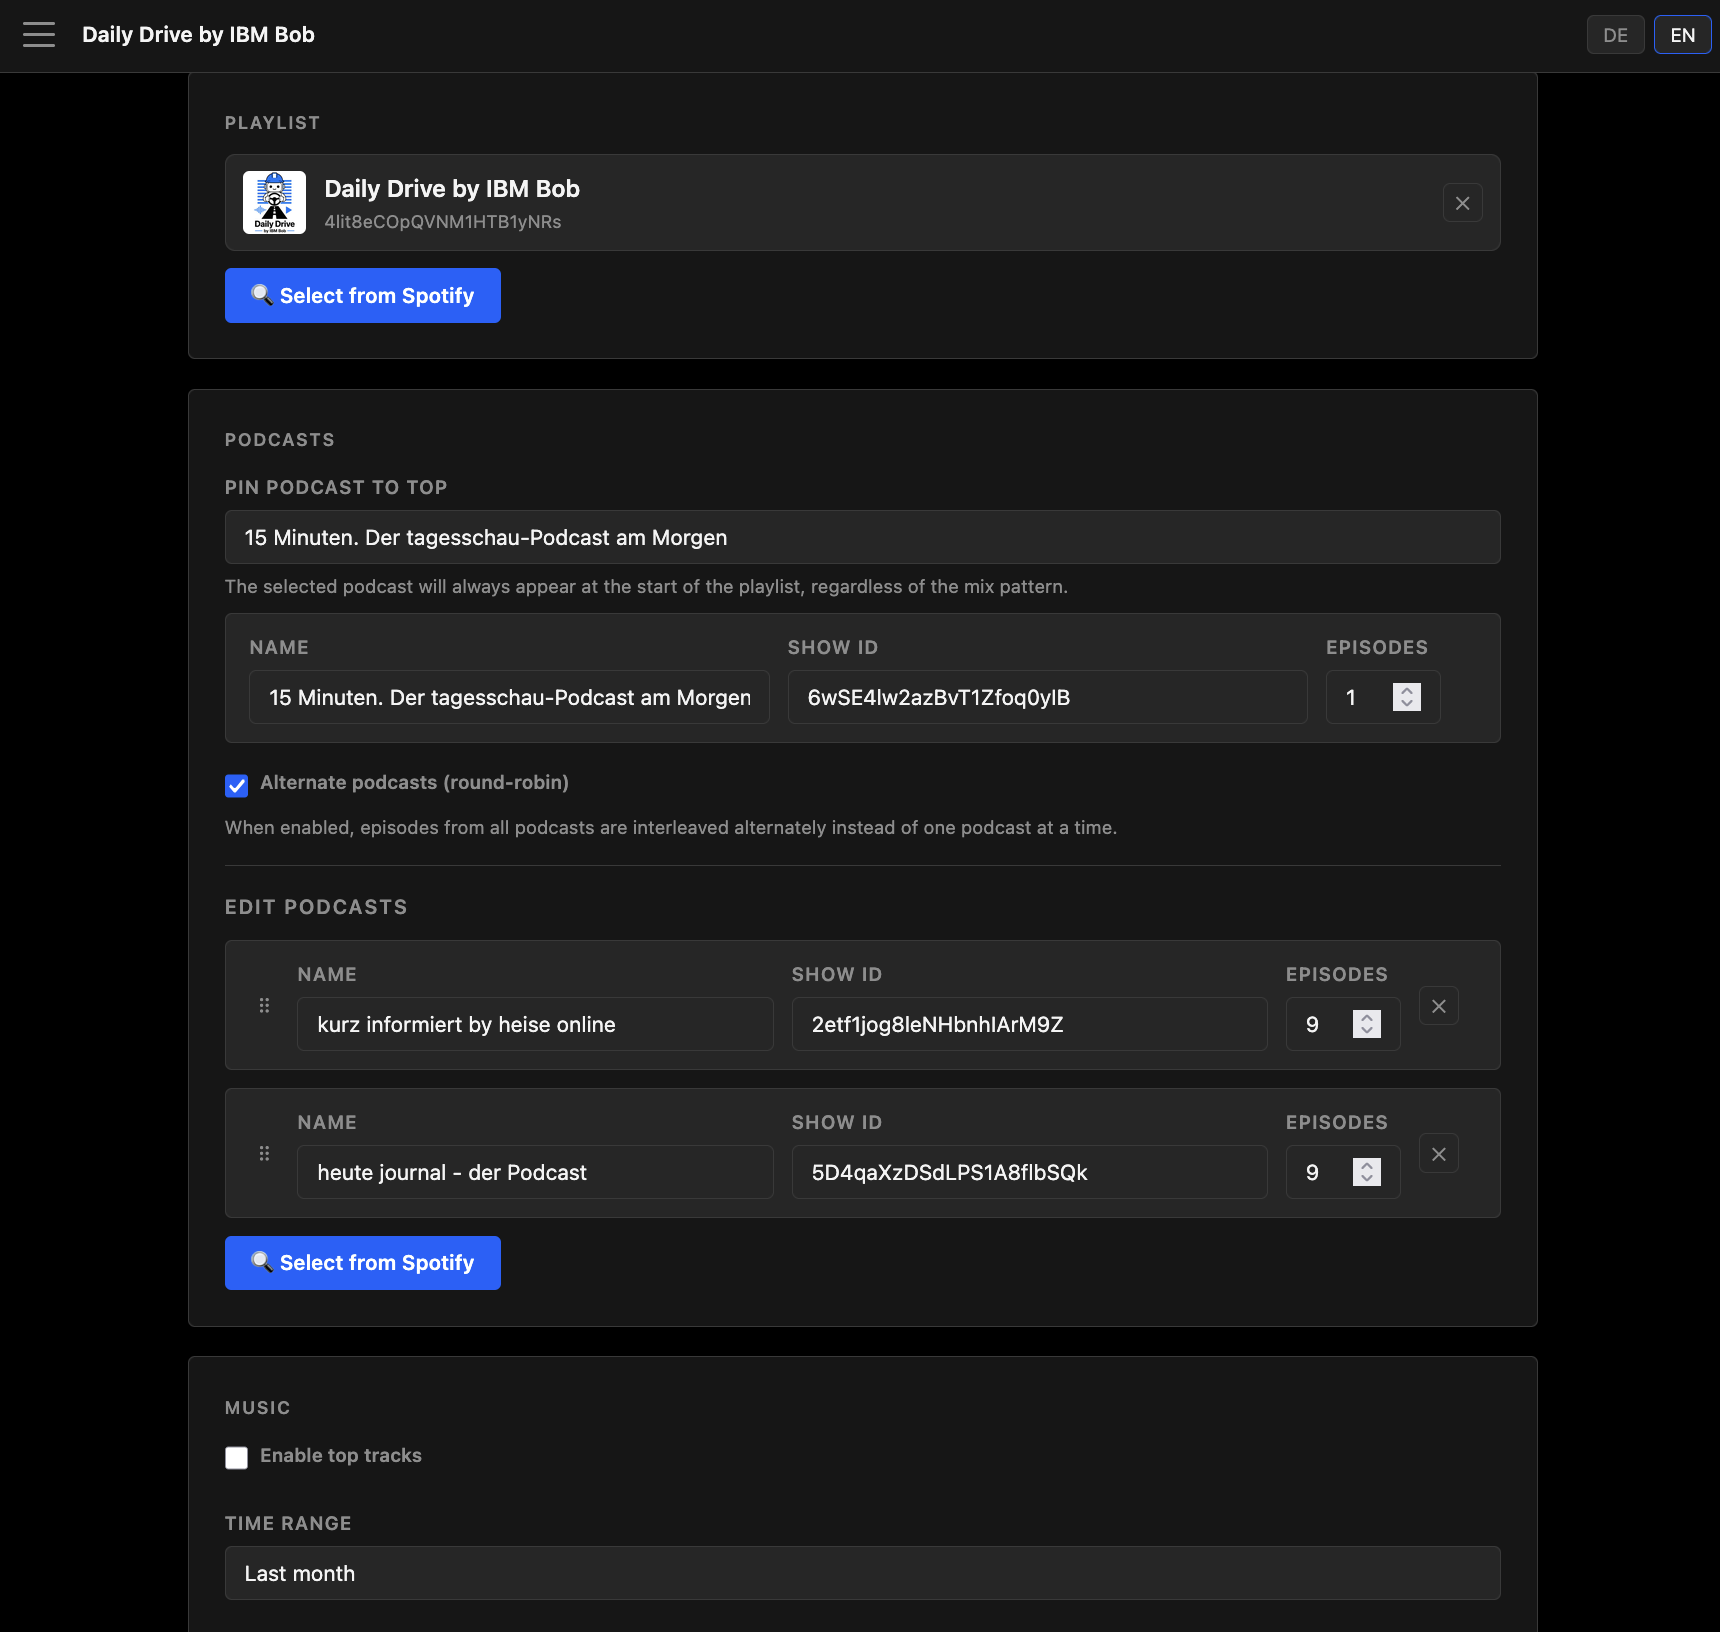
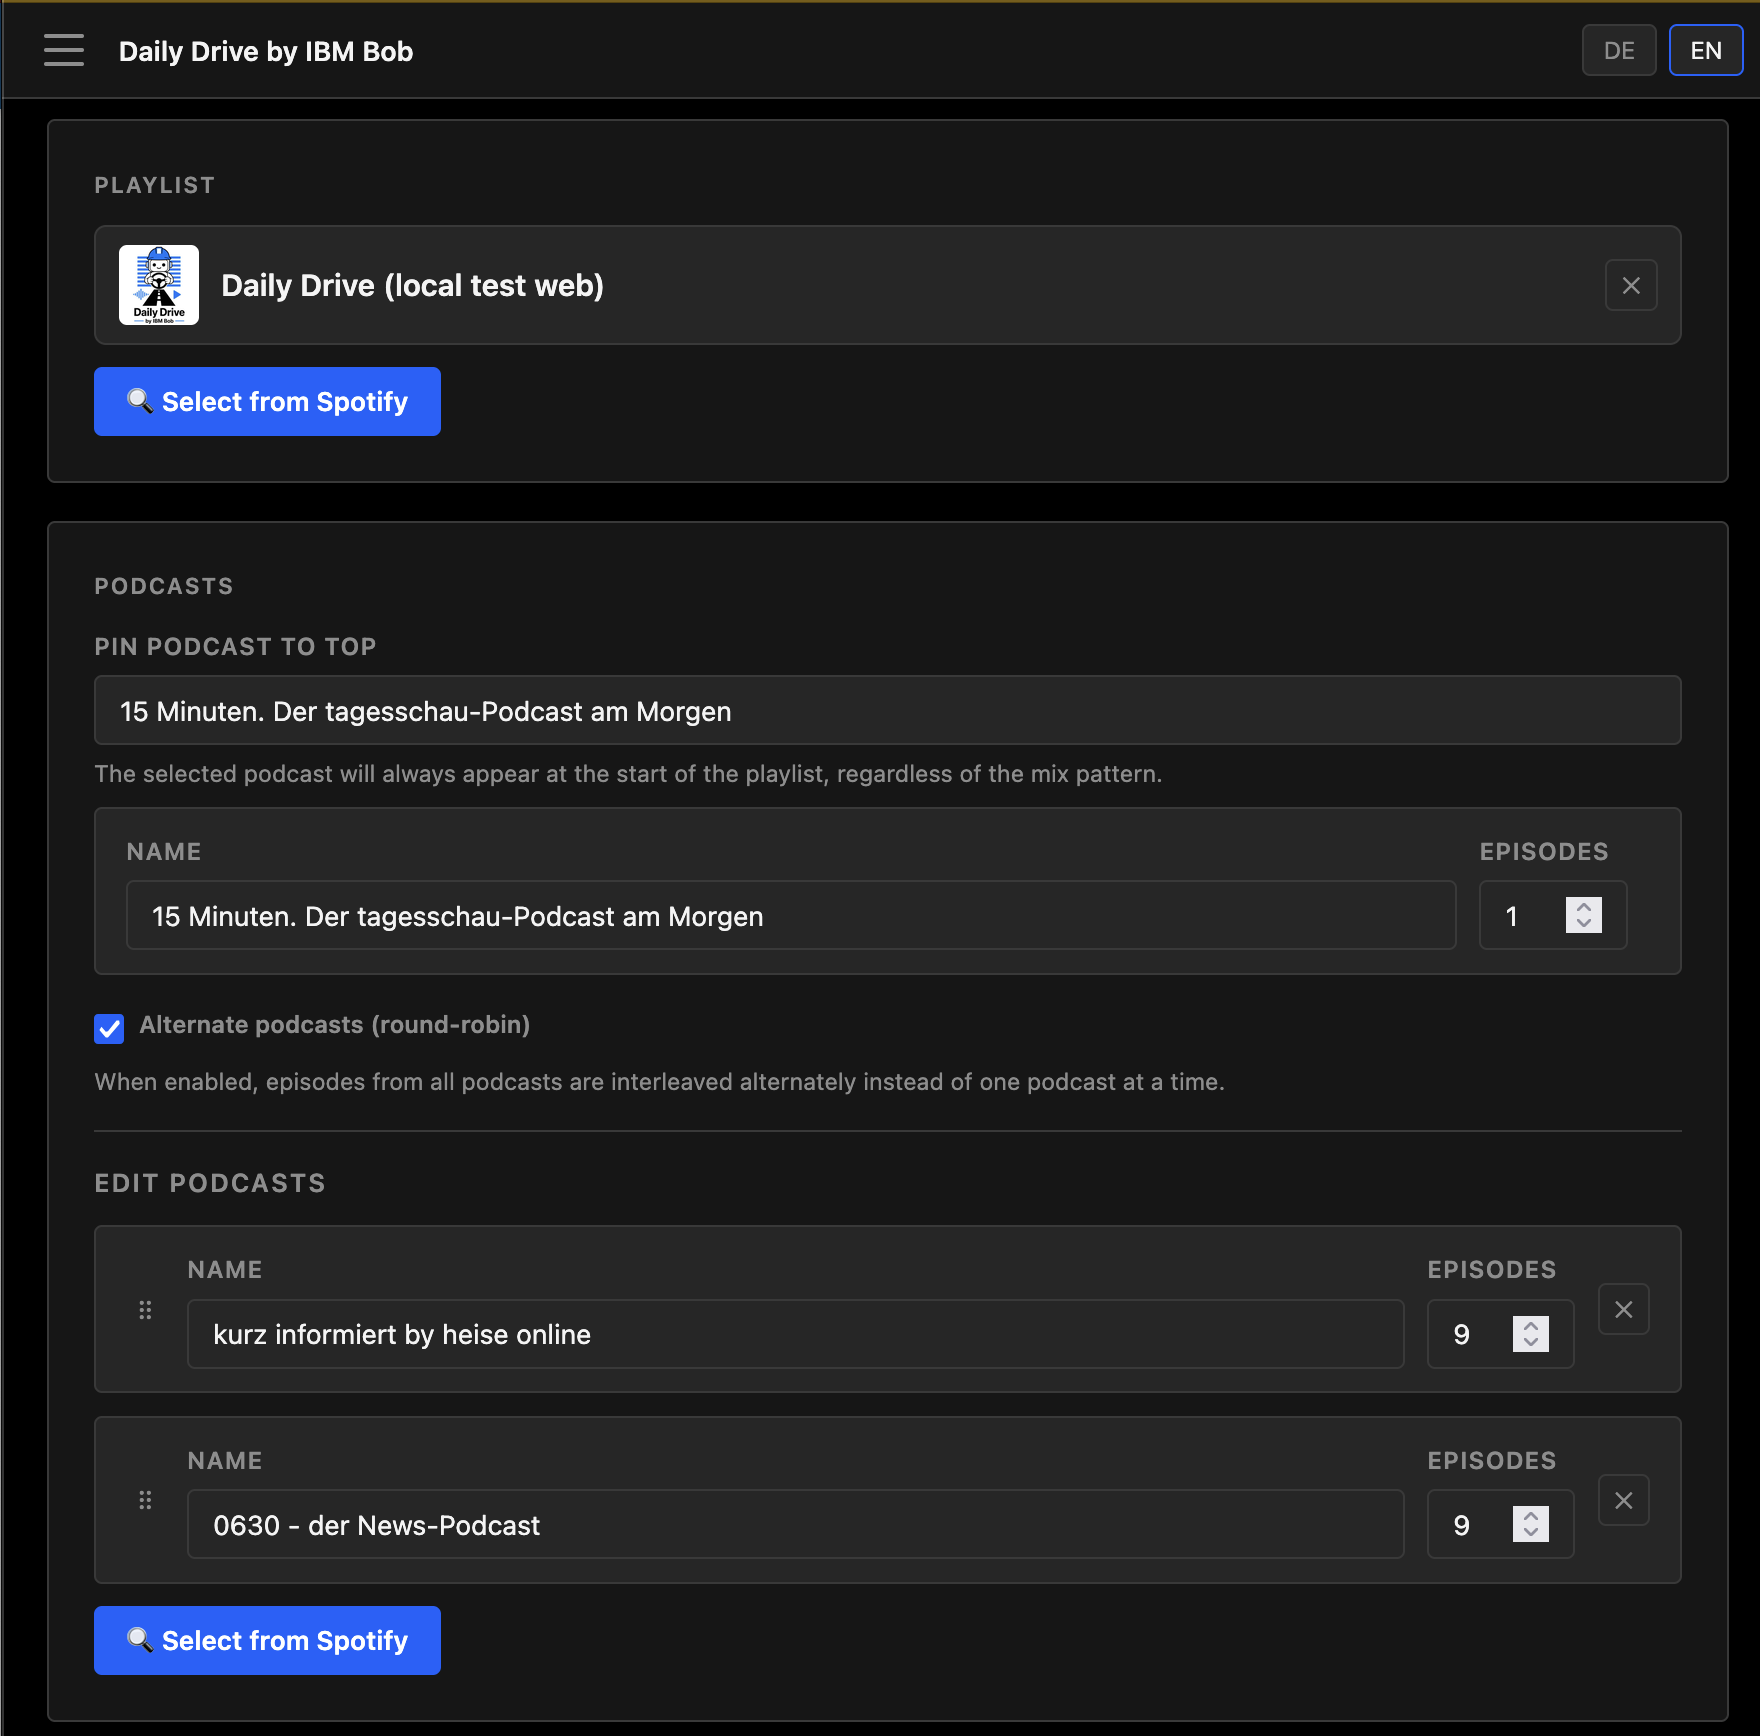
doku update

diff --git a/README.md b/README.md
@@ -112,7 +112,9 @@ Manage podcasts (with top-pinning and round-robin alternation) and music sources
 <p align="center">
   <img src="img/screenshots/config-podcasts.png" alt="Podcast Configuration" width="750">
   <br><br>
-  <img src="img/screenshots/config-music.png" alt="Music and Schedule Configuration" width="750">
+  <img src="img/screenshots/config-music1.png" alt="Music and Schedule Configuration" width="750">
+  <br><br>
+  <img src="img/screenshots/config-music2.png" alt="Music and Schedule Configuration" width="750">
 </p>
 
 ### Volume Mount — Persistent Files
